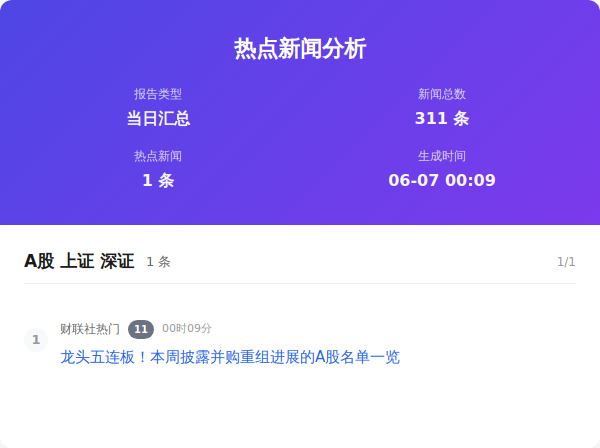
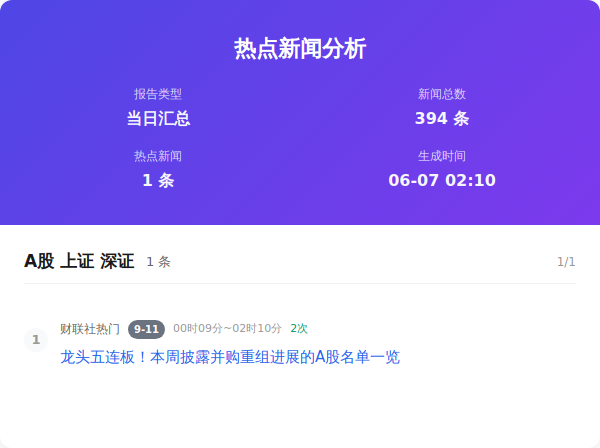
Auto update by GitHub Actions at Sun Jun  7 02:10:24 CST 2026

Changed region(s): [[0.21, 0.6875, 0.51, 0.7812], [0.75, 0.375, 0.84, 0.4375], [0.69, 0.25, 0.75, 0.2812]]

diff --git a/index.html b/index.html
@@ -357,7 +357,7 @@
                     </div>
                     <div class="info-item">
                         <span class="info-label">新闻总数</span>
-                        <span class="info-value">311 条</span>
+                        <span class="info-value">394 条</span>
                     </div>
                     <div class="info-item">
                         <span class="info-label">热点新闻</span>
@@ -365,7 +365,7 @@
                     </div>
                     <div class="info-item">
                         <span class="info-label">生成时间</span>
-                        <span class="info-value">06-07 00:09</span>
+                        <span class="info-value">06-07 02:10</span>
                     </div>
                 </div>
             </div>
@@ -383,7 +383,7 @@
                         <div class="news-number">1</div>
                         <div class="news-content">
                             <div class="news-header">
-                                <span class="source-name">财联社热门</span><span class="rank-num ">11</span><span class="time-info">00时09分</span>
+                                <span class="source-name">财联社热门</span><span class="rank-num ">9-11</span><span class="time-info">00时09分~02时10分</span><span class="count-info">2次</span>
                             </div>
                             <div class="news-title"><a href="https://www.cls.cn/detail/2392448" target="_blank" class="news-link">龙头五连板！本周披露并购重组进展的A股名单一览</a>
                             </div>

diff --git a/output/2026年06月07日/html/当日汇总.html b/output/2026年06月07日/html/当日汇总.html
@@ -357,7 +357,7 @@
                     </div>
                     <div class="info-item">
                         <span class="info-label">新闻总数</span>
-                        <span class="info-value">311 条</span>
+                        <span class="info-value">394 条</span>
                     </div>
                     <div class="info-item">
                         <span class="info-label">热点新闻</span>
@@ -365,7 +365,7 @@
                     </div>
                     <div class="info-item">
                         <span class="info-label">生成时间</span>
-                        <span class="info-value">06-07 00:09</span>
+                        <span class="info-value">06-07 02:10</span>
                     </div>
                 </div>
             </div>
@@ -383,7 +383,7 @@
                         <div class="news-number">1</div>
                         <div class="news-content">
                             <div class="news-header">
-                                <span class="source-name">财联社热门</span><span class="rank-num ">11</span><span class="time-info">00时09分</span>
+                                <span class="source-name">财联社热门</span><span class="rank-num ">9-11</span><span class="time-info">00时09分~02时10分</span><span class="count-info">2次</span>
                             </div>
                             <div class="news-title"><a href="https://www.cls.cn/detail/2392448" target="_blank" class="news-link">龙头五连板！本周披露并购重组进展的A股名单一览</a>
                             </div>